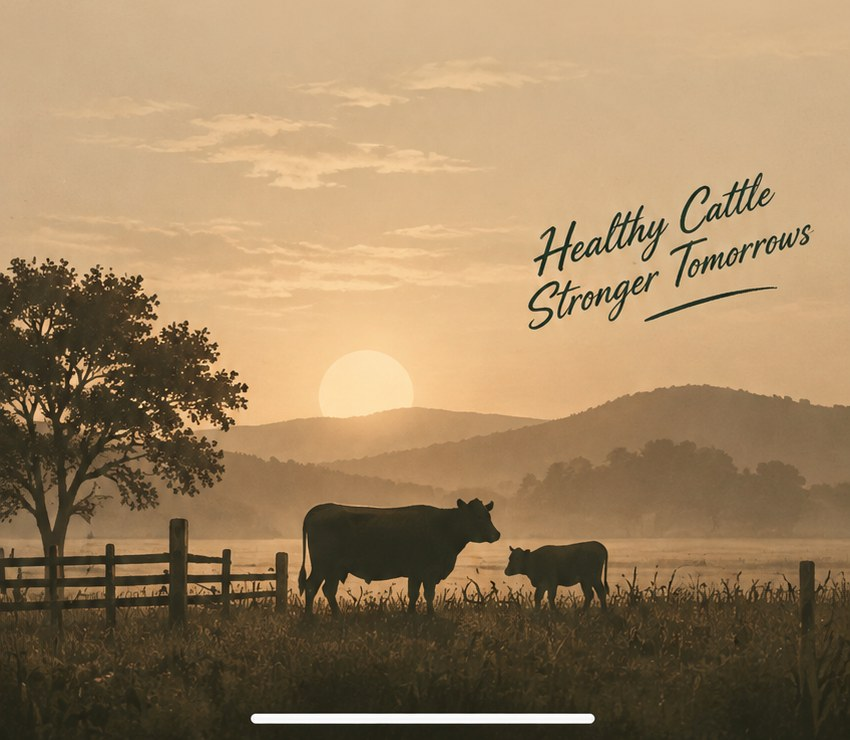
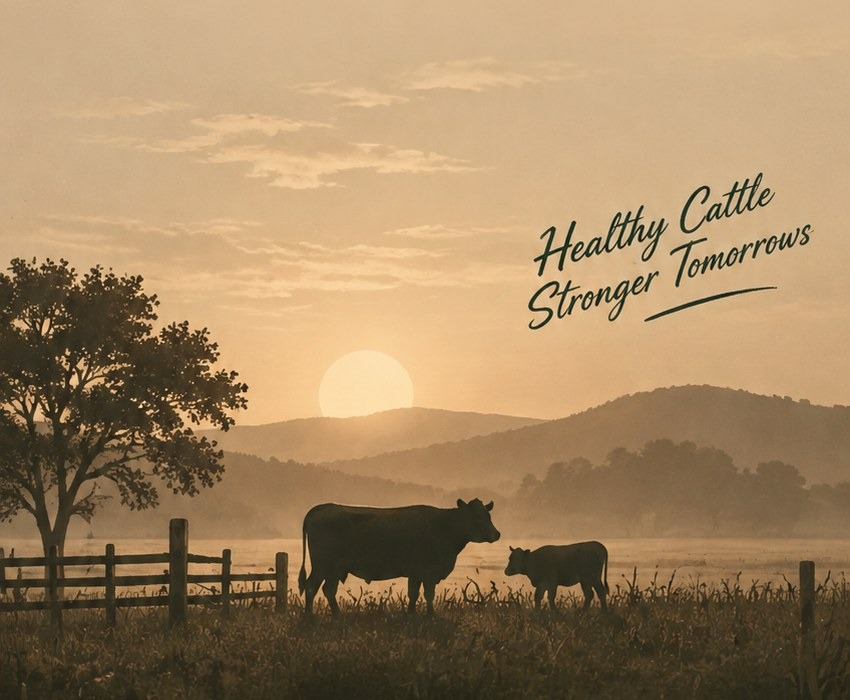
Add files via upload

diff --git a/styles.css b/styles.css
@@ -1243,3 +1243,29 @@ body.home-layout .home-ranch-scene{
 .invite-ready-card .muted{font-size:.8rem}.invite-link-box{margin-top:14px;padding:11px 12px;border-radius:12px;background:rgba(228,214,194,.42);border:1px solid rgba(91,75,55,.12);font-size:.7rem;line-height:1.4;word-break:break-all;color:var(--muted)}
 .invite-share-grid{display:grid;grid-template-columns:1fr 1fr;gap:9px;margin-top:12px}
 @media(max-width:420px){.admin-hero{align-items:flex-start;flex-direction:column}.admin-hero .primary{width:100%}.farm-user-card{grid-template-columns:38px minmax(0,1fr) 36px;padding:10px 11px}.farm-user-avatar{width:38px;height:38px;border-radius:12px}.pending-invite-card{align-items:flex-start;flex-direction:column}.pending-invite-actions{width:100%}.pending-invite-actions .soft{flex:1}.invite-card{padding:24px 20px}}
+
+/* V51 — ranch background layout correction
+   Keep the entire width of the ranch artwork visible so the slogan is never
+   clipped, and let the warm background fill any extra height naturally. */
+body.home-layout .home-ranch-scene{
+  background-color:#d9b77f;
+  background-size:100% auto;
+  background-position:center bottom;
+  background-repeat:no-repeat;
+}
+body.home-layout .home-ranch-scene::before{
+  /* Soften the transition from the dashboard into the top of the photo. */
+  background:linear-gradient(
+    180deg,
+    rgba(222,187,137,.98) 0%,
+    rgba(222,187,137,.68) 10%,
+    rgba(222,187,137,.24) 24%,
+    transparent 40%
+  );
+}
+@media(max-width:420px){
+  body.home-layout .home-ranch-scene{
+    background-size:100% auto;
+    background-position:center bottom;
+  }
+}

diff --git a/index.html b/index.html
@@ -9,16 +9,16 @@
   <meta name="apple-mobile-web-app-status-bar-style" content="default" />
   <meta name="apple-mobile-web-app-title" content="Cattle Records" />
   <title>Cattle Records</title>
-  <!-- Cattle Records build v50 activity delete controls -->
-  <link rel="manifest" href="manifest.webmanifest?v=50" />
+  <!-- Cattle Records build v51 ranch background layout fix -->
+  <link rel="manifest" href="manifest.webmanifest?v=51" />
   <link rel="apple-touch-icon" href="apple-touch-icon.png?v=48" />
-  <link rel="stylesheet" href="styles.css?v=50" />
+  <link rel="stylesheet" href="styles.css?v=51" />
 </head>
 <body>
   <div id="app"><main class="screen"><p class="muted">Loading cattle records…</p></main></div>
   <div id="modalRoot"></div>
   <script type="module">
-    import("./app.js?v=50").catch(error=>{
+    import("./app.js?v=51").catch(error=>{
       console.error("Cattle Records startup failed",error);
       const root=document.getElementById("app");
       if(root)root.innerHTML=`<main class="screen"><section class="auth-card"><p class="eyebrow">Cattle Records</p><h2>App could not start</h2><p class="muted">The app files did not load correctly. Make sure you are online, then close and reopen the app.</p><p class="muted" style="font-size:.8rem;word-break:break-word">${String(error?.message||"").replace(/[&<>]/g,c=>({"&":"&amp;","<":"&lt;",">":"&gt;"}[c]))}</p></section></main>`;

diff --git a/service-worker.js b/service-worker.js
@@ -1,9 +1,9 @@
-const CACHE_NAME="cattle-records-shell-v50";
+const CACHE_NAME="cattle-records-shell-v51";
 const SHELL=[
   "./index.html",
-  "./styles.css?v=50",
-  "./app.js?v=50",
-  "./manifest.webmanifest?v=50",
+  "./styles.css?v=51",
+  "./app.js?v=51",
+  "./manifest.webmanifest?v=51",
   "./ranch-scene.jpg",
   "./icon-192.png",
   "./icon-512.png",
